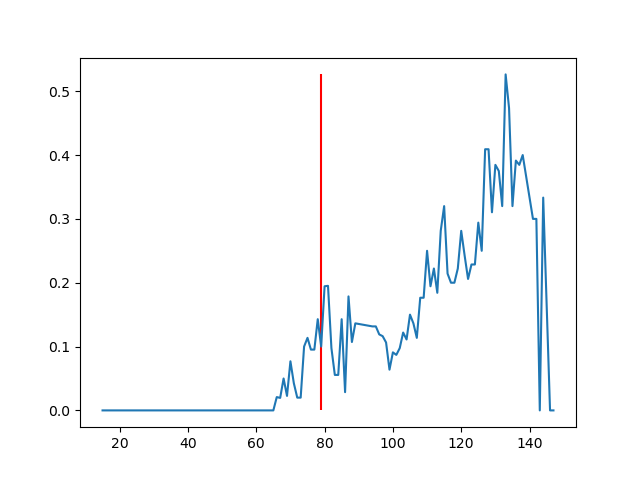
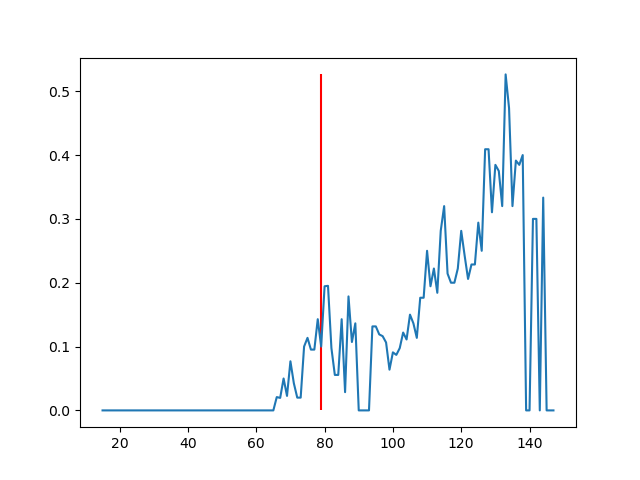
first results fix for real

Changed region(s): [[0.8125, 0.3438, 0.875, 0.875], [0.5312, 0.6562, 0.5938, 0.875]]

diff --git a/3_Evaluate/results.py b/3_Evaluate/results.py
@@ -21,8 +21,7 @@ for j in range(len(resultfiles)):
     filename = resultfiles[j]
     videoid = filename[-10:-4]
 
-    print(filename)
-    print(videoid)
+    print(j,filename, videoid)
 
     videoinfo = root.find(f"./video[@taskid='{videoid}']")
     tracks = videoinfo.find('tracks')
@@ -33,30 +32,25 @@ for j in range(len(resultfiles)):
 
     results = pd.read_csv(f'/notebooks/Thesis/results/{MODEL}/{filename}')
 
-    framenum = []
-    numpatches = []
-    numpositive = []
-    prevpatchnum = -1
-    j = -1
+    firstframe = results.iloc[0, 0]
+    lastframe = results.iloc[-1, 0]
+    numframes = lastframe - firstframe + 1
+
+    framenum = range(firstframe, lastframe+1)
+    numpatches = [0]*numframes
+    numpositive = [0]*numframes
+    percentpositive = [0]*numframes
 
     for i in range(len(results)):
-        currpatchnum = results.iloc[i, 0]
+        currframe = results.iloc[i, 0]
         currpatchres = results.iloc[i, 3]
 
-        if currpatchnum != prevpatchnum:
-            j += 1
-            framenum.append(currpatchnum)
-            numpatches.append(1)
-            numpositive.append(currpatchres)
-        else:
-            numpatches[j] += 1
-            numpositive[j] += currpatchres
+        numpatches[currframe-firstframe] += 1
+        numpositive[currframe-firstframe] += currpatchres
 
-        prevpatchnum = currpatchnum
-
-    percentpositive = []
     for i in range(len(numpositive)):
-        percentpositive.append(numpositive[i] / numpatches[i])
+        if numpatches[i] > 0:
+            percentpositive[i] = numpositive[i] / numpatches[i]
 
     fig1 = plt.figure()
     ax1 = fig1.add_subplot()
@@ -70,3 +64,4 @@ for j in range(len(resultfiles)):
 
     fig1.savefig(f'/notebooks/Thesis/results/{MODEL}/{filename[0:-11]}_tot.png')
     fig2.savefig(f'/notebooks/Thesis/results/{MODEL}/{filename[0:-11]}_per.png')
+    # plt.show()
